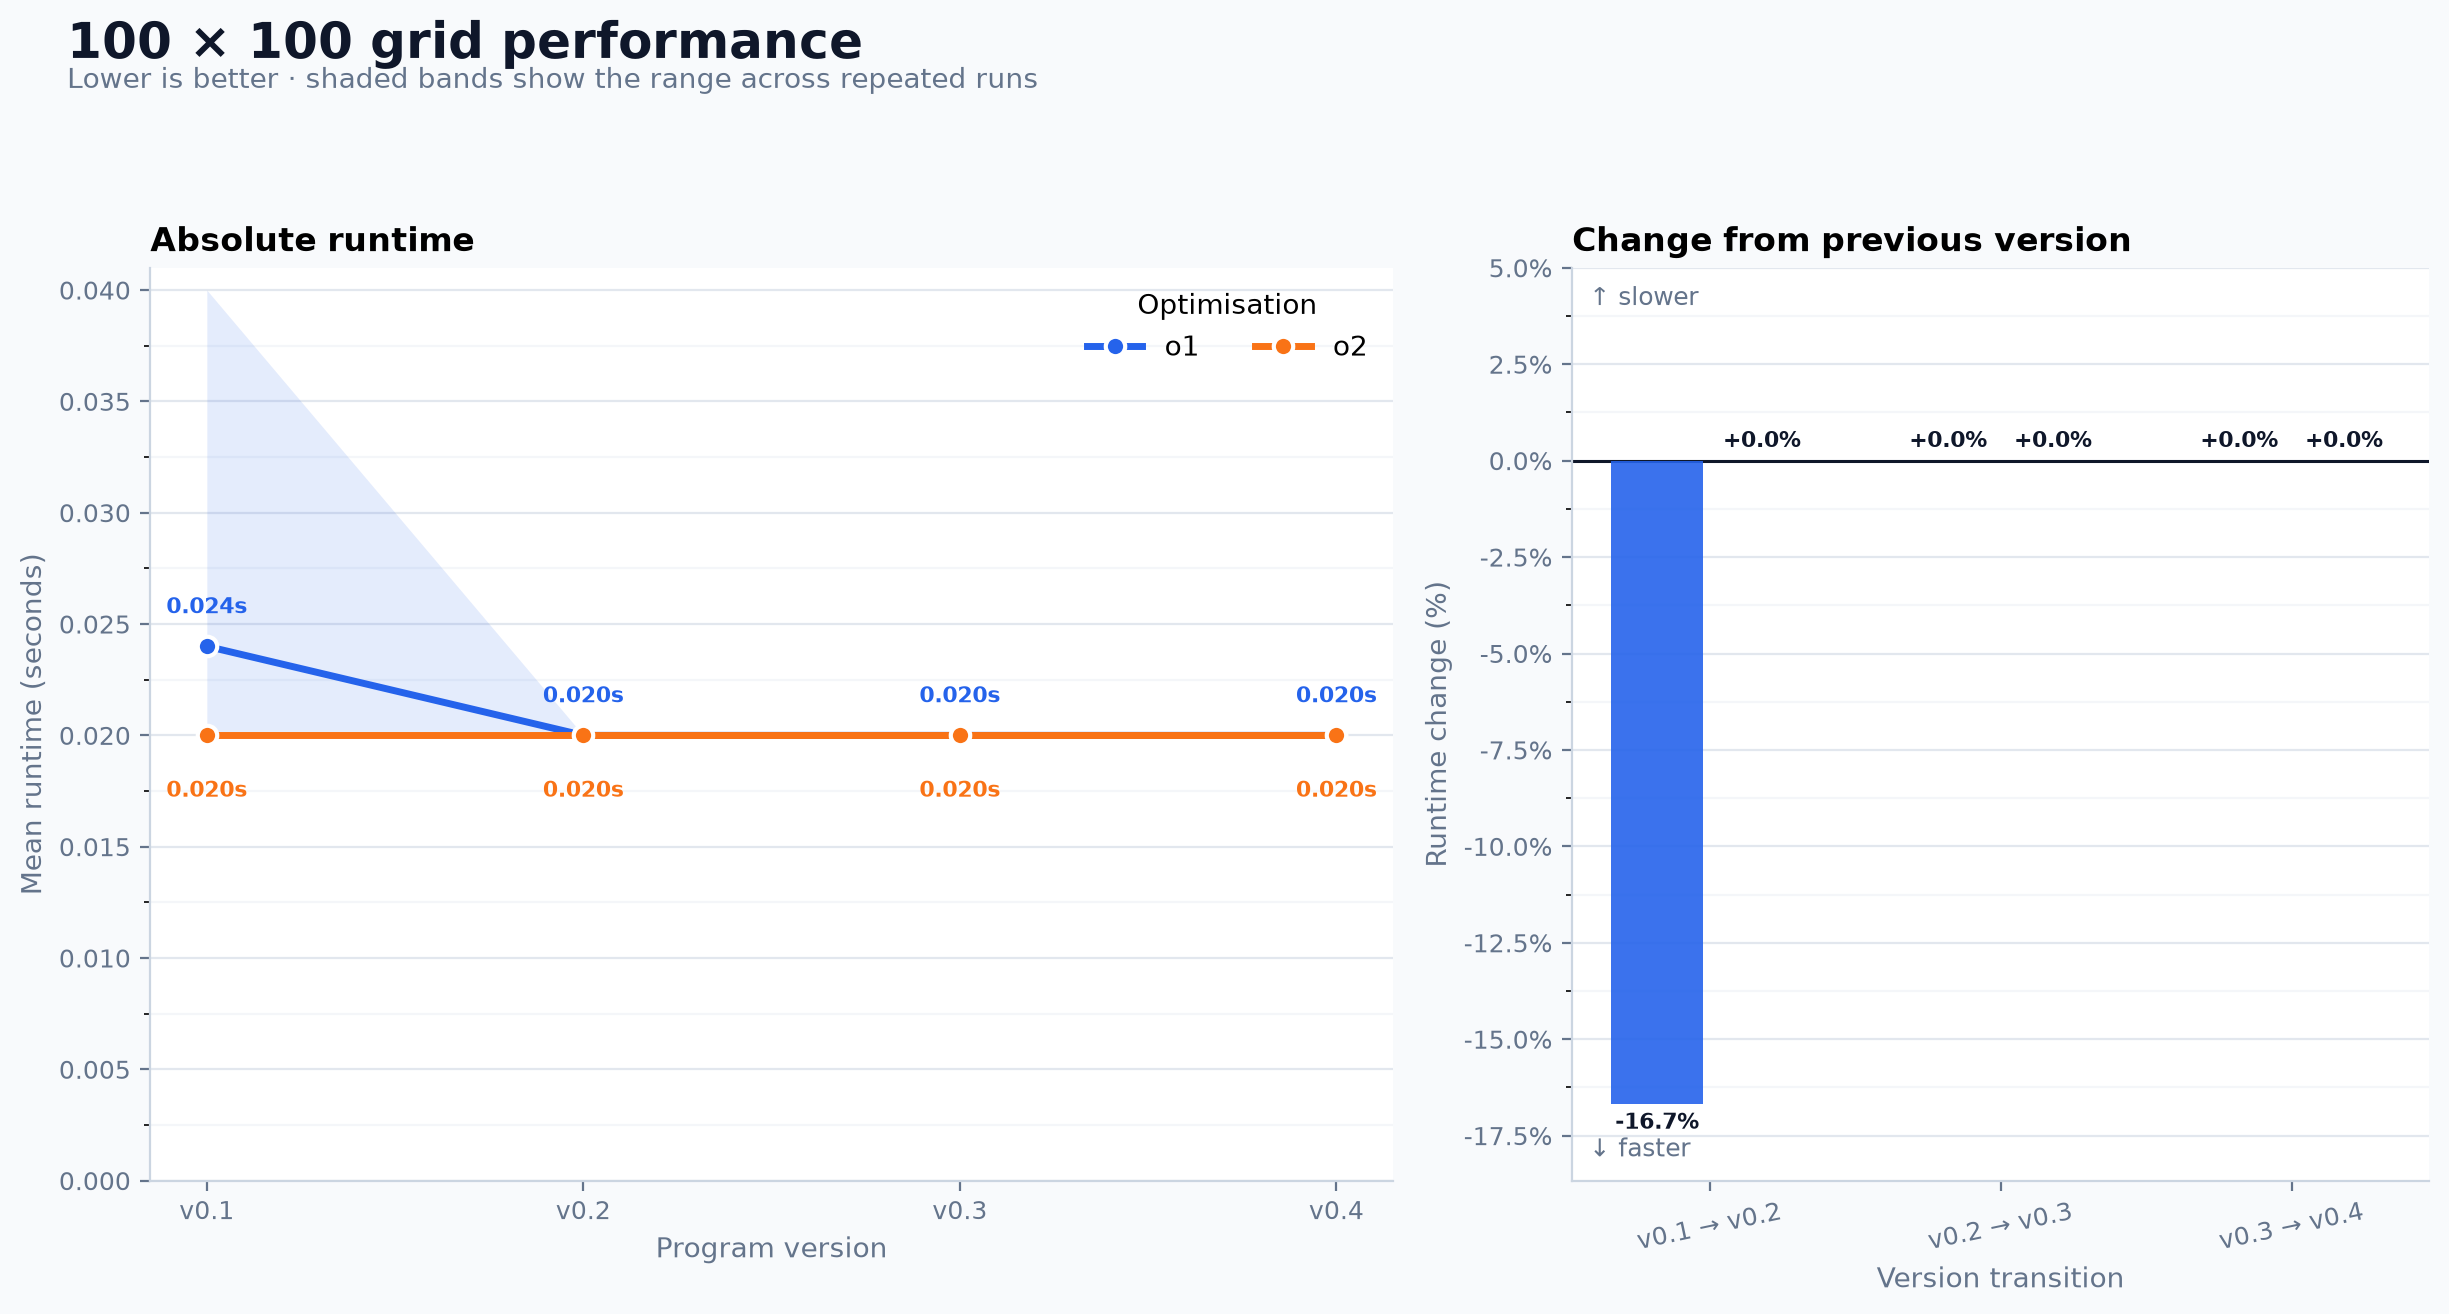
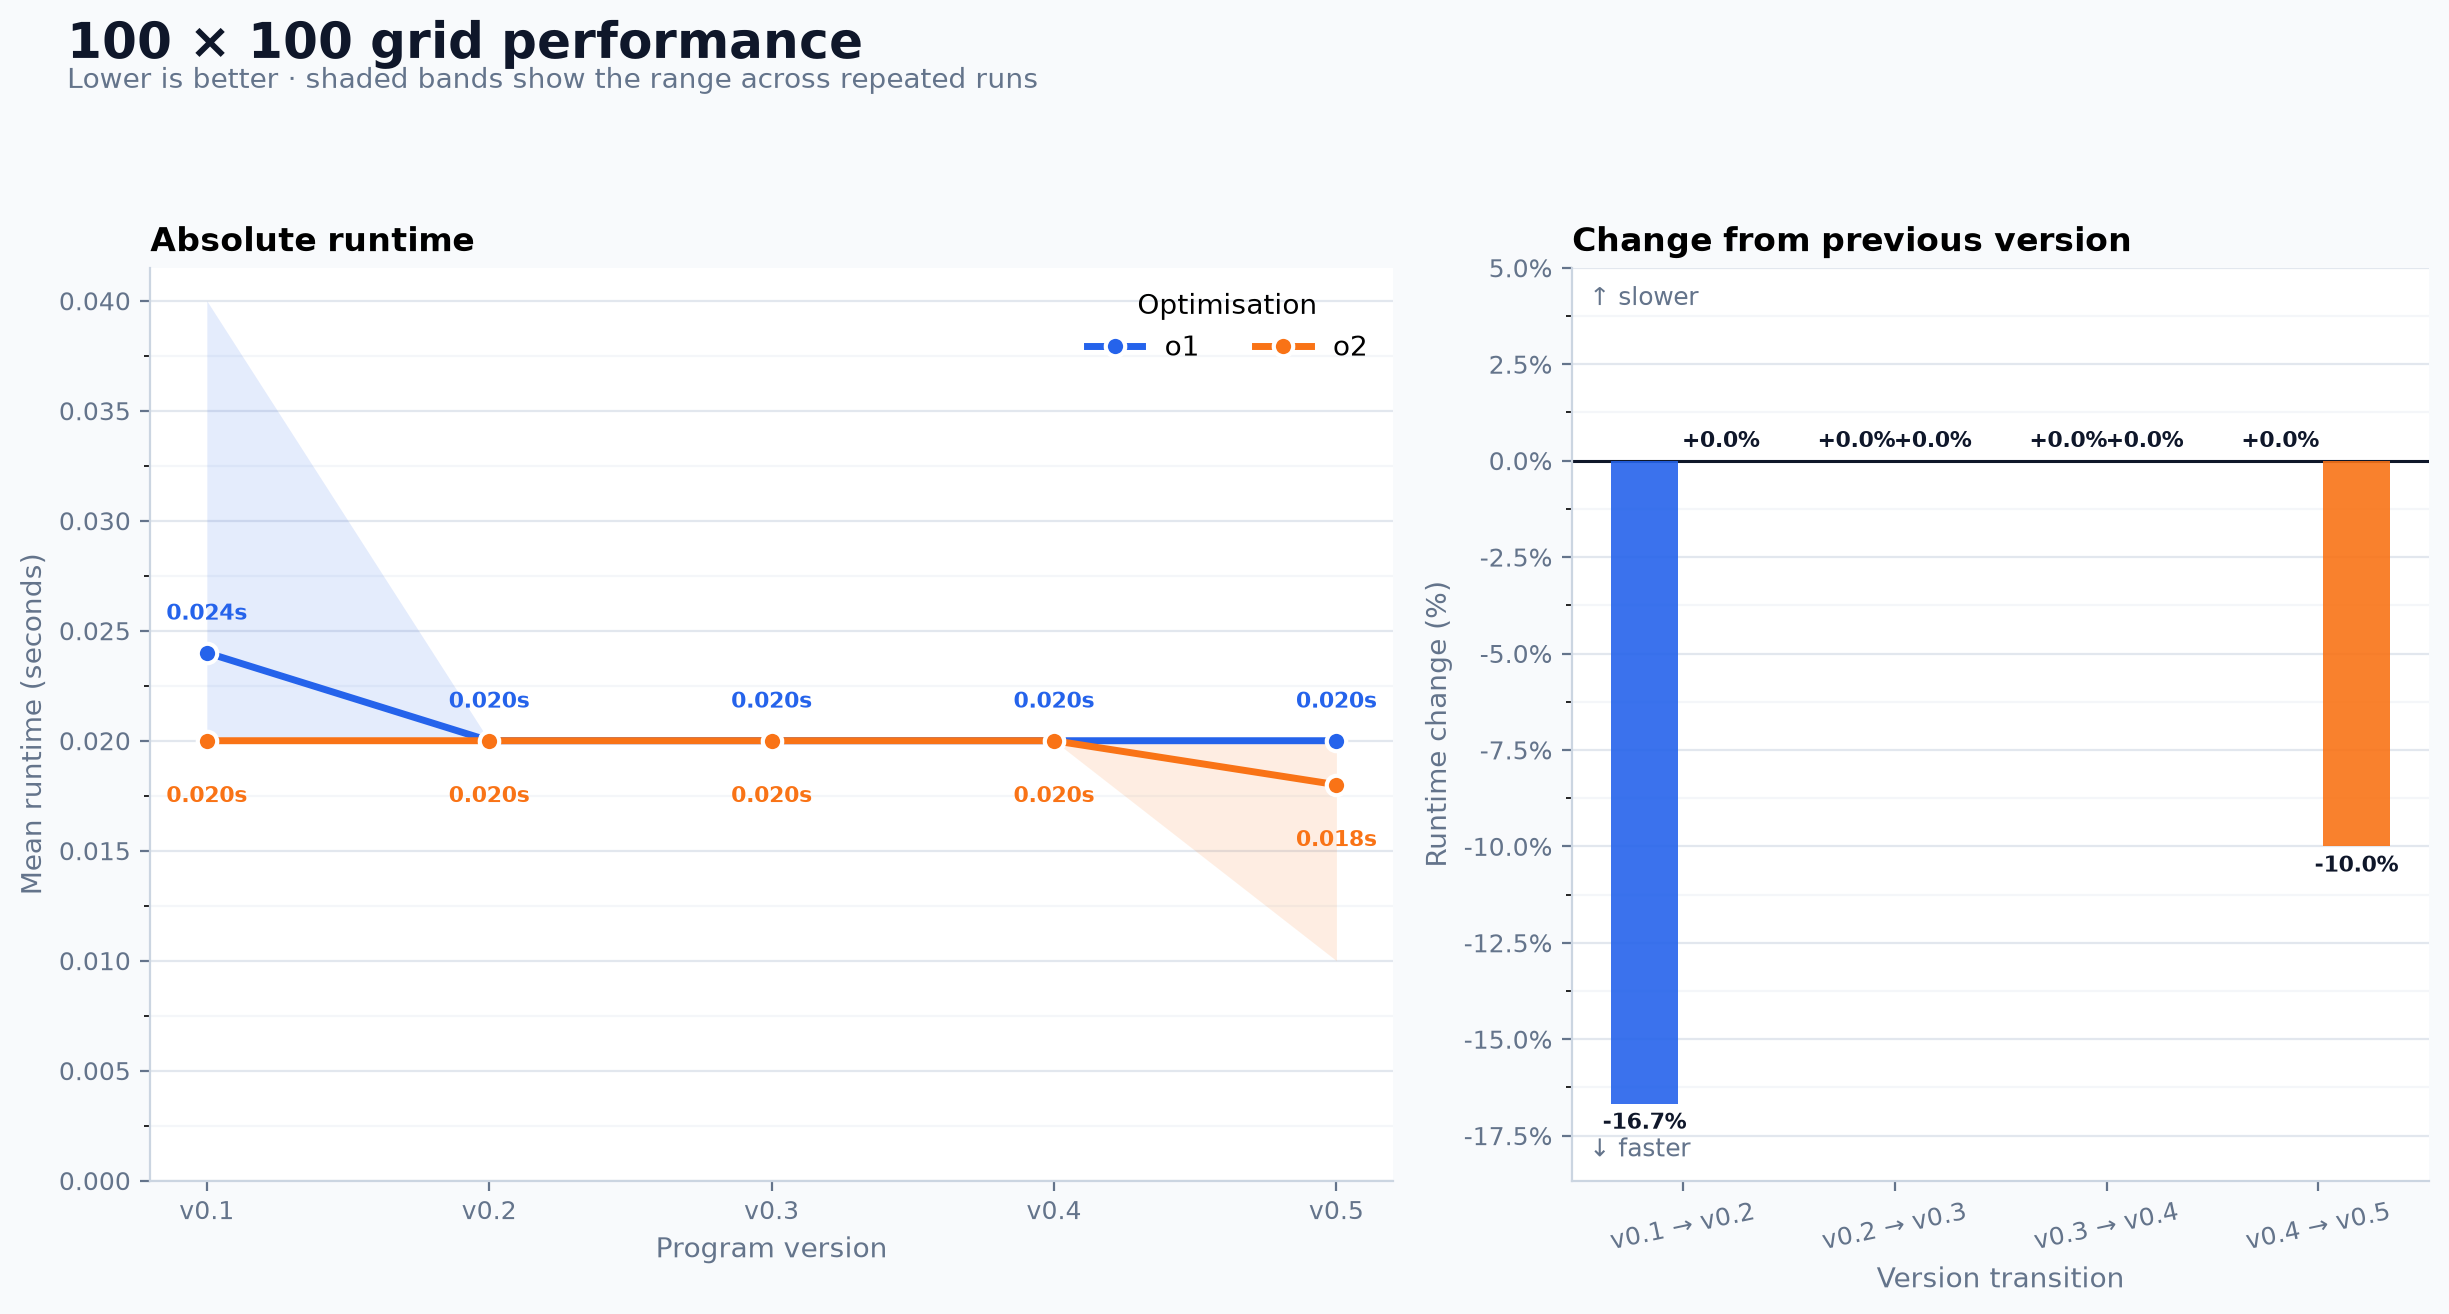
add devlog entry for v0.5

diff --git a/notes/devlog.md b/notes/devlog.md
@@ -178,6 +178,46 @@ avoids the float construction and conversion work in `nextFloat()`.
 
 # v0.5
 
-for this one i think im going to change the implementation of the CA grid from a 2d grid to a 1d grid and will access it as such. The hopes is that this would eliminate 1 for loop from my program. reduce the data that's being fetched from RAM to cache? improve cache locality ?
+for this one i think im going to change the implementation of the CA grid from a 2d grid to a 1d grid and will access it as such. reduce the data that's being fetched from RAM to cache? improve cache locality ? also would reduce heap allocs as a now it's just a vec instead of a vec of vecs
 
 To do this properly i need to figure out a way to hash the final grid state so that i can perform a correctness check once the migration has been done.
+
+The 1D port produced the expected final-state hash for a 1000² grid after
+500 timesteps with `p=0.02` and `f=0.01`, so the migration preserved the
+simulation result:
+
+```text
+15213144908148633160
+```
+
+The benchmark used the same setup as v0.4: 500 timesteps, two warm-up runs,
+five timed repetitions, one pinned CPU, and GCC 8.5 on the same cluster node.
+The intended effect was to remove the indirection and allocation overhead of
+the vector-of-vectors representation. It achieved roughly a 10% speedup at
+`-O1` and roughly a 2% speedup at `-O2` for both the 500² and 1000² grids. The
+100² result was unchanged, but those runs are too short to compare reliably
+because the timing resolution is only 0.01 seconds.
+
+The original 2D layout stored the outer vector and each inner vector
+separately, requiring a separate heap allocation for each column's cell
+storage. The 1D layout uses one vector and therefore one contiguous heap
+allocation per grid, removing the outer-vector indirection and the many small
+allocations. The vector objects themselves are local to `main`, but their cell
+storage is still heap-allocated; this change does not move the grid onto the
+stack.
+
+The original layout was already reasonably cache-friendly because the inner
+`y` loop walked contiguous elements inside each inner vector. The 1D port
+therefore does not fundamentally change the neighbor access pattern. At
+`-O2`, the compiler can likely eliminate much of the nested-vector access
+overhead, leaving the neighbor loads, branches, RNG, and state updates as the
+dominant costs.
+
+Cachegrind confirmed that the 1D layout reduces memory traffic, but not the
+cache miss rate. For the 1000², 500-timestep `-O2` run, data references fell
+from 3.72 billion to 1.73 billion (53% fewer), while D1 misses fell only from
+16.45 million to 15.73 million (4.4% fewer). The D1 miss rate increased from
+0.4% to 0.9% because there were fewer total references. This suggests that
+the speedup comes mainly from removing vector indirection and allocation
+overhead, rather than a major improvement in cache locality. Full results are
+in [`data/v0.5/cachegrind/`](../data/v0.5/cachegrind/).
